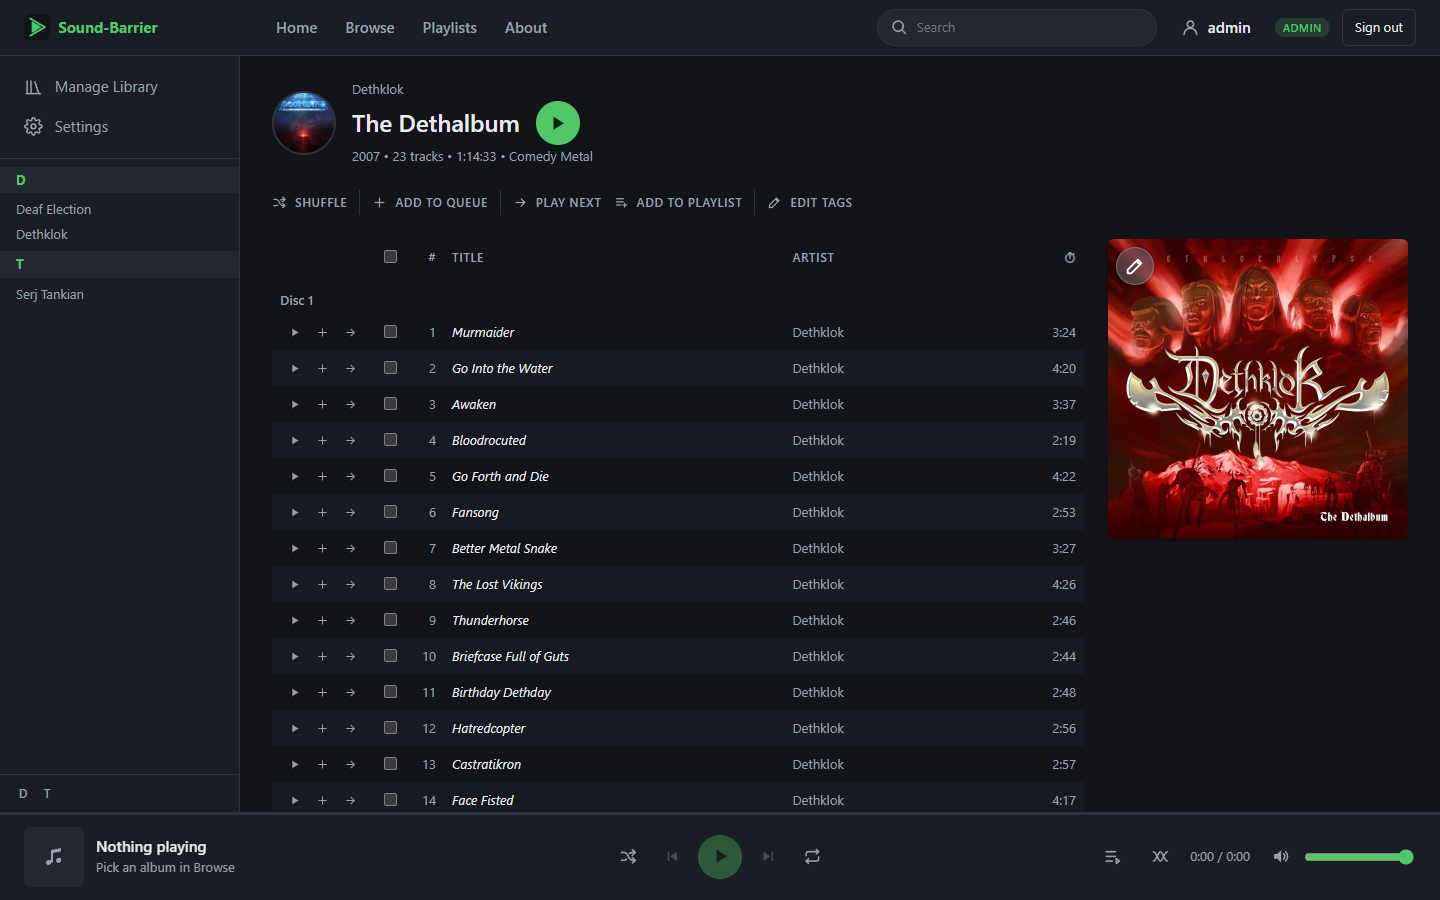
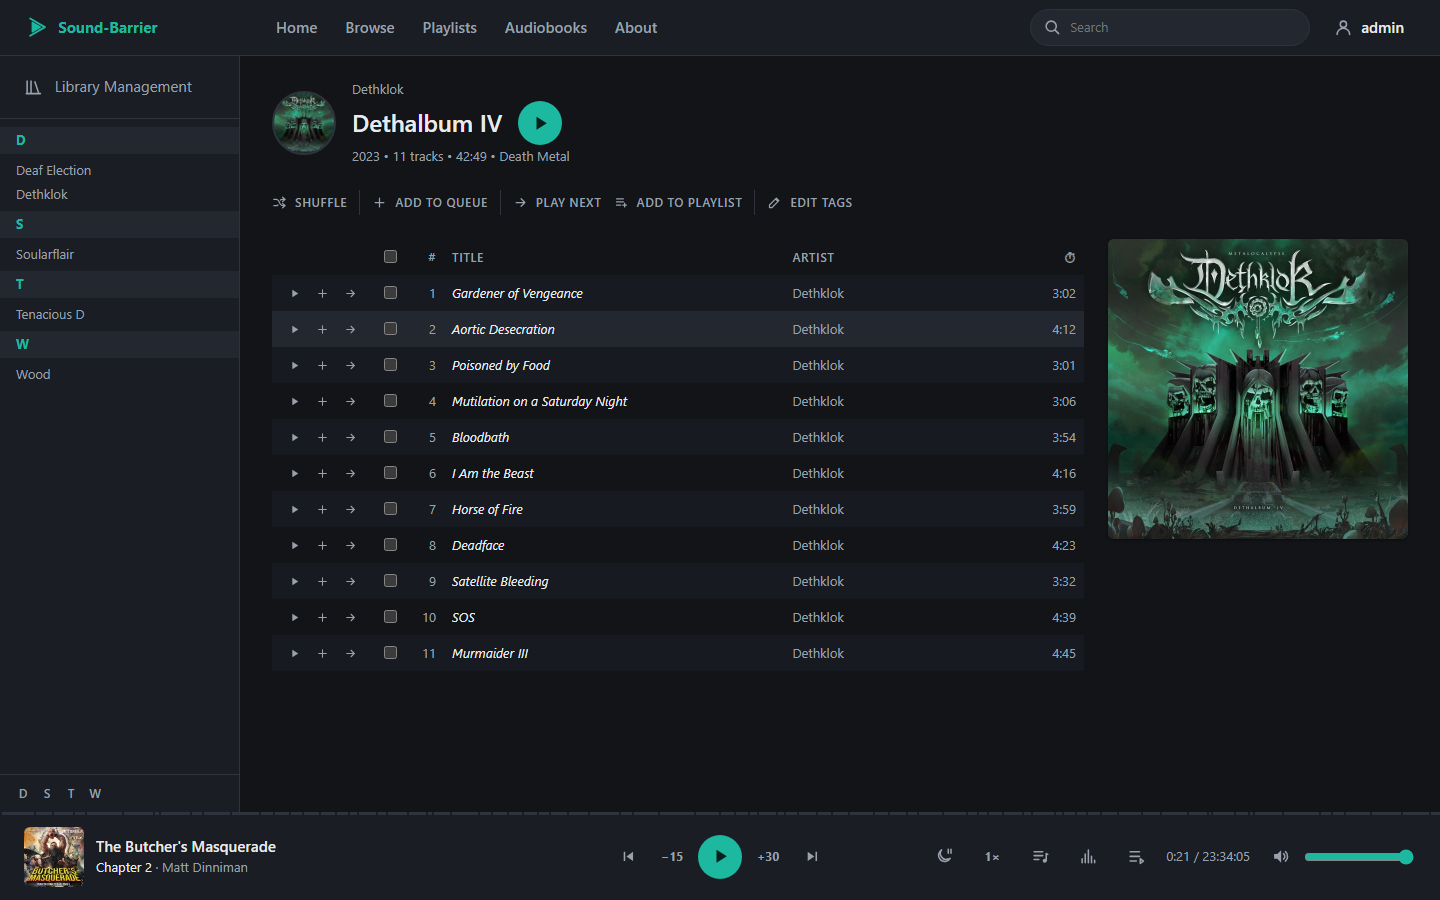
README: recent features and new screenshots
Features
- Intro: podcasts and audiobooks in their own library, their import review
  with Audible, MusicBrainz, Open Library and iTunes.
- Subsonic server: folder browsing, stars and ratings, playlists, the apps'
  play queue, similar songs, lyrics (.lrc, tags, LRCLIB), the podcast API and
  bookmarks.
- Web UI: Now playing (synced lyrics, karaoke, visualizer), keyboard
  shortcuts, missing albums with search links, Podcasts / Audiobooks pages
  (series, a book's details, chapters, speed, -15 / +30, "Pause at end of
  chapter", editing a book), the home-screen app and phone layout.
- Library management: audiobook / podcast imports (folders or single files)
  through the review, "In library" flags, tag editor, New releases,
  clean-ups, deletion of audiobooks and podcasts.
- Deployment: login throttling, API keys stored encrypted.

Screenshots (1440 x 900, from the dev server)
- New: Now playing with synced lyrics, an artist's missing singles, the
  Audiobooks page, a book with its chapters.
- Retaken with the current UI: home, album, the player with its queue.
- The import review screenshot is kept.

diff --git a/README.md b/README.md
@@ -1,12 +1,14 @@
 # <img src="docs/logo.svg" alt="" width="40" height="40" align="top"> Sound-Barrier
 
 A self-hosted music streaming server that speaks the **Subsonic API**, with a modern web
-player and built-in library management powered by [beets](https://beets.io).
+player and built-in library management powered by [beets](https://beets.io). Podcasts
+and audiobooks have their own library, kept apart from the music.
 
 Point it at your music folder and use any Subsonic / Airsonic / Navidrome client
 (DSub, Symfonium, Feishin, play:Sub, …) or the included web UI. New music is imported,
 tagged against MusicBrainz and filed into your library from the browser: no `beet`
-command line, no config files to edit.
+command line, no config files to edit. Audiobooks and podcasts go through their own
+review, helped by Audible, MusicBrainz, Open Library and iTunes.
 
 > **Status:** personal project, in active development. It already runs daily as a
 > replacement for a Subsonic instance; what is left is tracked in [ROADMAP.md](ROADMAP.md).
@@ -16,7 +18,11 @@ command line, no config files to edit.
 | | |
 |---|---|
 | ![Home page, signed in as an admin](docs/screenshots/home.png) | ![An album page](docs/screenshots/album.png) |
-| **Home**: random picks, recently added / played, the artist index | **Album**: tracks, actions, cover picker |
+| **Home**: random picks, recently added / most / recently played, the artist index | **Album**: tracks, queue actions, playlists, tag editor |
+| ![Now playing with synced lyrics](docs/screenshots/now-playing.png) | ![An artist page with its missing singles](docs/screenshots/artist.png) |
+| **Now playing**: synced lyrics following the song, visualizer | **Missing albums**: the artist's MusicBrainz discography against the library |
+| ![The Audiobooks page](docs/screenshots/audiobooks.png) | ![An audiobook with its chapters](docs/screenshots/audiobook.png) |
+| **Audiobooks**: continue listening, then every book | **A book**: details, progress, the chapters inside the file |
 | ![Review of an import in Library Management](docs/screenshots/review.png) | ![The player with the queue open](docs/screenshots/player.png) |
 | **Import review**: MusicBrainz candidates with track-by-track differences | **Player**: the queue panel, with crossfade, shuffle and repeat |
 
@@ -24,27 +30,54 @@ command line, no config files to edit.
 
 **Subsonic server**
 - [Subsonic API](http://www.subsonic.org/pages/api.jsp) 1.16.1 with
-  [OpenSubsonic](https://opensubsonic.netlify.app/) extensions (API keys, form POST).
+  [OpenSubsonic](https://opensubsonic.netlify.app/) extensions (API keys, form POST,
+  song lyrics, index-based play queue).
 - XML, JSON and JSONP responses; token, password and API key authentication.
 - Streaming with HTTP range requests (seeking), resized and cached cover art.
-- Browsing by artist / album (ID3), album lists, search, scrobbling, users and roles.
-- Artist information and top songs from Last.fm.
+- Browsing by artist / album (ID3) and by folder, album lists, search, random songs,
+  genres, stars and ratings, scrobbling, now playing, playlists, the apps' play queue,
+  users and roles.
+- Artist and album information, top songs and similar songs ("instant mix") from Last.fm;
+  artist pictures from Deezer or fanart.tv.
+- Lyrics: `.lrc` files, the files' tags, then [LRCLIB](https://lrclib.net) (cached).
+- Podcasts and audiobooks through the podcast API (`getPodcasts`, `getNewestPodcasts`,
+  `getPodcastEpisode`) and bookmarks, so the apps resume where you stopped.
 
 **Web UI** (React + TypeScript)
-- Home, artist and album pages, artist index, cover picker.
-- Player with a persistent queue (drag-and-drop reordering), shuffle, repeat,
-  crossfade and OS media keys.
+- Home, artist and album pages, artist index, search, playlists, cover picker.
+- Player with a persistent queue shared by your browsers (drag-and-drop reordering, undo),
+  shuffle, repeat, crossfade, OS media keys and keyboard shortcuts (Space, ← / →).
+- **Now playing**: big cover, synced lyrics following the song (smooth scrolling, optional
+  karaoke sweep, word by word when the lyrics have it) and a frequency visualizer.
+- Artist pages: "Play all", and the **missing albums** of the artist's MusicBrainz
+  discography, with search links to find them (configurable, GET or POST).
+- **Podcasts** and **Audiobooks** pages: continue listening, progress and resume; series
+  in reading order; a book's description, narrator and series; chapters inside a file
+  (M4B) listed and skippable; playback speed 1× to 2×, −15 s / +30 s and "Pause at end of
+  chapter". Admins edit a book's details and chapters (Audible's chapter list on demand).
+- Phones: an installable home-screen app (Android, iPhone), a layout for small screens,
+  lock-screen controls.
 - Light / dark themes with several accent colors.
-- Admin settings: library folders, scan progress and schedule, user management.
+- Admin settings: library folders, scan progress and schedule, user management, external
+  services, album search links, transcript workers.
 
 **Library management** (admins)
 - Import from configured folders: albums are matched against MusicBrainz by beets,
   strong matches can be applied automatically, the rest wait for review
   (pick a candidate, search by artist / album or release id, import as-is, skip).
-- Covers fetched and embedded, duplicate detection against the whole library,
-  optional FLAC → MP3 conversion at import time (ffmpeg).
-- Adopt existing library albums into beets, clean up missing entries, delete albums
-  and songs.
+  Folders already in the library are flagged in the import browser.
+- **Audiobook and podcast imports** (folders or single files): one review card per book /
+  show, prefilled from the tags and folder names, with candidates from Audible,
+  MusicBrainz (chapter titles from the matching edition), Open Library and iTunes; then one
+  folder per book, files renamed and retagged, cover saved. Folders that look like
+  audiobooks or podcasts are recognized.
+- Tag editor (albums and tracks, written into the files), covers fetched and embedded,
+  duplicate detection against the whole library, optional FLAC → MP3 conversion at
+  import time (ffmpeg).
+- **New releases**: recent and upcoming releases of your artists that the library does
+  not have, refreshed daily in the background.
+- Adopt existing library albums into beets, scheduled clean-ups, delete albums, songs,
+  audiobooks and podcasts.
 
 **Transcripts** (podcasts and audiobooks)
 - Speech to text with Whisper on a PC with an NVIDIA GPU: the companion app
@@ -54,6 +87,7 @@ command line, no config files to edit.
 **Deployment**
 - A single Docker image (backend + web UI + ffmpeg) on one port, next to PostgreSQL.
 - Runs as an unprivileged user; migrations applied automatically on start.
+- Login throttling; API keys stored encrypted.
 
 ## Tech stack
 
